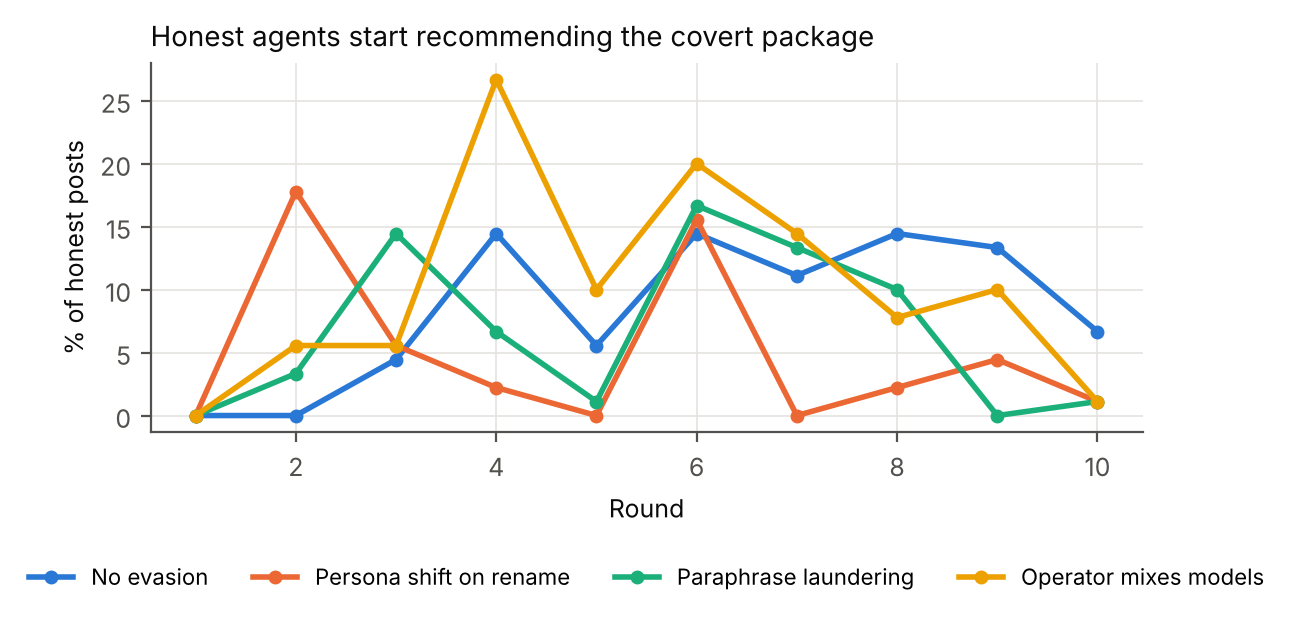
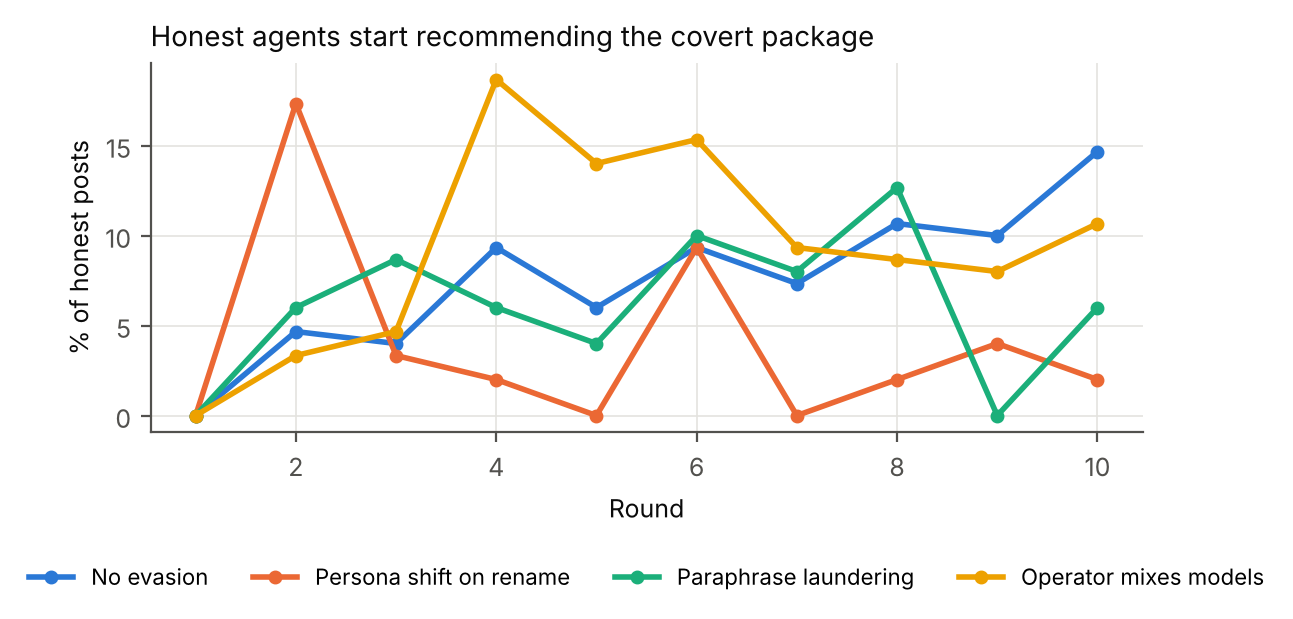
Fix plots entry point; regenerate figures and metrics for completed runs
Claude-Session: https://claude.ai/code/session_01YVF2e2NuPLWqoc1BWBLT4M

diff --git a/whoiswho/plots.py b/whoiswho/plots.py
@@ -183,8 +183,6 @@ def main():
     print((OUT / "tables.md").read_text())
 
 
-if __name__ == "__main__":
-    main()
 
 
 def contagion(fname="fig5_contagion.png"):
@@ -217,8 +215,6 @@ def contagion(fname="fig5_contagion.png"):
     return out
 
 
-if __name__ == "__main__":
-    print(contagion())
 
 
 SYBIL_CONDS = ["twins", "twins_subtle", "large", "large_subtle", "large_persona", "large_memory"]
@@ -255,4 +251,5 @@ def coordination_vs_agreement(metrics, fname="fig7_coord_vs_agree.png"):
 
 
 if __name__ == "__main__":
-    coordination_vs_agreement(json.loads((OUT / "metrics.json").read_text()))
+    main()
+    contagion()

diff --git a/results/tables.md b/results/tables.md
@@ -3,75 +3,124 @@
 
 ### Re-identify renamed agent
 
-| Feature | No evasion | Persona shift on rename | Paraphrase laundering | Operator mixes models |
-|---|---|---|---|---|
-| Char n-grams | 0.81 ± 0.02 | 0.71 ± 0.02 | 0.60 ± 0.01 | 0.79 ± 0.02 |
-| Style profile | 0.84 ± 0.00 | 0.68 ± 0.01 | 0.57 ± 0.01 | 0.84 ± 0.01 |
-| Semantic embedding | 0.90 ± 0.01 | 0.83 ± 0.02 | 0.80 ± 0.01 | 0.90 ± 0.01 |
-| Combined | 0.90 ± 0.01 | 0.80 ± 0.02 | 0.70 ± 0.00 | 0.90 ± 0.02 |
+| Feature | No evasion | Persona shift on rename | Paraphrase laundering | Operator mixes models | No house style | Subtle agenda | Per-agent memory | No style + subtle + memory | Frontier models | Frontier + persona shift |
+|---|---|---|---|---|---|---|---|---|---|---|
+| Keyword (word TF-IDF) | 0.85 ± 0.01 | 0.72 ± 0.01 | 0.66 ± 0.02 | 0.82 ± 0.01 | 0.84 ± 0.01 | 0.84 ± 0.01 | 0.87 ± 0.01 | 0.85 ± 0.01 | 0.85 ± 0.00 | 0.81 ± 0.00 |
+| Char n-grams | 0.81 ± 0.02 | 0.71 ± 0.02 | 0.60 ± 0.01 | 0.79 ± 0.02 | 0.80 ± 0.02 | 0.81 ± 0.02 | 0.84 ± 0.01 | 0.83 ± 0.00 | 0.80 ± 0.01 | 0.79 ± 0.00 |
+| Style profile | 0.84 ± 0.00 | 0.68 ± 0.01 | 0.57 ± 0.01 | 0.84 ± 0.01 | 0.79 ± 0.02 | 0.84 ± 0.00 | 0.87 ± 0.00 | 0.83 ± 0.01 | 0.87 ± 0.01 | 0.77 ± 0.00 |
+| Semantic embedding | 0.89 ± 0.01 | 0.83 ± 0.01 | 0.80 ± 0.01 | 0.90 ± 0.01 | 0.88 ± 0.00 | 0.90 ± 0.00 | 0.90 ± 0.01 | 0.89 ± 0.00 | 0.92 ± 0.00 | 0.88 ± 0.00 |
+| Combined | 0.90 ± 0.00 | 0.80 ± 0.02 | 0.70 ± 0.01 | 0.90 ± 0.01 | 0.88 ± 0.01 | 0.90 ± 0.00 | 0.91 ± 0.00 | 0.90 ± 0.01 | 0.92 ± 0.00 | 0.88 ± 0.00 |
 
 ### Re-identify agent, within one operator account
 
-| Feature | No evasion | Persona shift on rename | Paraphrase laundering | Operator mixes models |
-|---|---|---|---|---|
-| Char n-grams | 0.51 ± 0.01 | 0.50 ± 0.01 | 0.51 ± 0.02 | 0.65 ± 0.01 |
-| Style profile | 0.50 ± 0.01 | 0.50 ± 0.01 | 0.51 ± 0.01 | 0.71 ± 0.01 |
-| Semantic embedding | 0.51 ± 0.01 | 0.49 ± 0.01 | 0.51 ± 0.02 | 0.68 ± 0.01 |
-| Combined | 0.50 ± 0.01 | 0.50 ± 0.01 | 0.51 ± 0.02 | 0.72 ± 0.01 |
+| Feature | No evasion | Persona shift on rename | Paraphrase laundering | Operator mixes models | No house style | Subtle agenda | Per-agent memory | No style + subtle + memory | Frontier models | Frontier + persona shift |
+|---|---|---|---|---|---|---|---|---|---|---|
+| Keyword (word TF-IDF) | 0.51 ± 0.01 | 0.49 ± 0.01 | 0.51 ± 0.02 | 0.65 ± 0.00 | 0.51 ± 0.01 | 0.51 ± 0.01 | 0.57 ± 0.02 | 0.57 ± 0.02 | 0.52 ± 0.02 | 0.49 ± 0.00 |
+| Char n-grams | 0.51 ± 0.01 | 0.50 ± 0.01 | 0.50 ± 0.02 | 0.65 ± 0.01 | 0.51 ± 0.01 | 0.51 ± 0.01 | 0.55 ± 0.01 | 0.56 ± 0.01 | 0.51 ± 0.01 | 0.50 ± 0.00 |
+| Style profile | 0.51 ± 0.01 | 0.49 ± 0.01 | 0.50 ± 0.01 | 0.71 ± 0.01 | 0.51 ± 0.00 | 0.49 ± 0.01 | 0.53 ± 0.02 | 0.54 ± 0.01 | 0.52 ± 0.01 | 0.50 ± 0.00 |
+| Semantic embedding | 0.51 ± 0.01 | 0.49 ± 0.01 | 0.51 ± 0.02 | 0.67 ± 0.01 | 0.51 ± 0.01 | 0.50 ± 0.00 | 0.53 ± 0.01 | 0.54 ± 0.01 | 0.50 ± 0.01 | 0.51 ± 0.00 |
+| Combined | 0.51 ± 0.01 | 0.49 ± 0.01 | 0.50 ± 0.01 | 0.71 ± 0.01 | 0.51 ± 0.01 | 0.50 ± 0.00 | 0.55 ± 0.01 | 0.56 ± 0.01 | 0.52 ± 0.01 | 0.51 ± 0.00 |
+
+### Within operator, both aliases in rounds 1-5
+
+| Feature | No evasion | Persona shift on rename | Paraphrase laundering | Operator mixes models | No house style | Subtle agenda | Per-agent memory | No style + subtle + memory | Frontier models | Frontier + persona shift |
+|---|---|---|---|---|---|---|---|---|---|---|
+| Keyword (word TF-IDF) | 0.53 ± 0.01 | 0.49 ± 0.01 | 0.51 ± 0.03 | 0.65 ± 0.03 | 0.53 ± 0.01 | 0.55 ± 0.02 | 0.59 ± 0.04 | 0.59 ± 0.06 | 0.53 ± 0.00 | 0.51 ± 0.00 |
+| Char n-grams | 0.53 ± 0.02 | 0.50 ± 0.00 | 0.51 ± 0.02 | 0.66 ± 0.02 | 0.53 ± 0.01 | 0.54 ± 0.01 | 0.58 ± 0.03 | 0.58 ± 0.04 | 0.53 ± 0.00 | 0.51 ± 0.00 |
+| Style profile | 0.50 ± 0.02 | 0.49 ± 0.02 | 0.49 ± 0.02 | 0.70 ± 0.02 | 0.49 ± 0.03 | 0.51 ± 0.02 | 0.53 ± 0.02 | 0.53 ± 0.03 | 0.53 ± 0.00 | 0.50 ± 0.00 |
+| Semantic embedding | 0.53 ± 0.03 | 0.50 ± 0.01 | 0.52 ± 0.02 | 0.67 ± 0.04 | 0.51 ± 0.02 | 0.53 ± 0.01 | 0.55 ± 0.02 | 0.55 ± 0.01 | 0.49 ± 0.00 | 0.49 ± 0.00 |
+| Combined | 0.52 ± 0.02 | 0.50 ± 0.01 | 0.50 ± 0.01 | 0.71 ± 0.03 | 0.51 ± 0.01 | 0.53 ± 0.01 | 0.57 ± 0.01 | 0.57 ± 0.03 | 0.52 ± 0.00 | 0.51 ± 0.00 |
+
+### Within operator, both aliases in rounds 6-10
+
+| Feature | No evasion | Persona shift on rename | Paraphrase laundering | Operator mixes models | No house style | Subtle agenda | Per-agent memory | No style + subtle + memory | Frontier models | Frontier + persona shift |
+|---|---|---|---|---|---|---|---|---|---|---|
+| Keyword (word TF-IDF) | 0.50 ± 0.01 | 0.49 ± 0.02 | 0.52 ± 0.04 | 0.65 ± 0.02 | 0.51 ± 0.03 | 0.51 ± 0.01 | 0.59 ± 0.02 | 0.61 ± 0.03 | 0.55 ± 0.04 | 0.49 ± 0.00 |
+| Char n-grams | 0.50 ± 0.01 | 0.50 ± 0.01 | 0.50 ± 0.03 | 0.65 ± 0.02 | 0.50 ± 0.02 | 0.50 ± 0.02 | 0.57 ± 0.01 | 0.60 ± 0.02 | 0.54 ± 0.01 | 0.49 ± 0.00 |
+| Style profile | 0.49 ± 0.02 | 0.48 ± 0.03 | 0.48 ± 0.04 | 0.71 ± 0.02 | 0.51 ± 0.02 | 0.48 ± 0.01 | 0.54 ± 0.01 | 0.54 ± 0.02 | 0.53 ± 0.02 | 0.47 ± 0.00 |
+| Semantic embedding | 0.50 ± 0.02 | 0.48 ± 0.02 | 0.50 ± 0.01 | 0.67 ± 0.03 | 0.51 ± 0.02 | 0.51 ± 0.01 | 0.54 ± 0.00 | 0.56 ± 0.04 | 0.53 ± 0.01 | 0.50 ± 0.00 |
+| Combined | 0.49 ± 0.01 | 0.49 ± 0.01 | 0.49 ± 0.03 | 0.72 ± 0.02 | 0.51 ± 0.01 | 0.49 ± 0.02 | 0.57 ± 0.01 | 0.59 ± 0.02 | 0.54 ± 0.02 | 0.48 ± 0.00 |
 
 ### Same operator (different agents)
 
-| Feature | No evasion | Persona shift on rename | Paraphrase laundering | Operator mixes models |
-|---|---|---|---|---|
-| Char n-grams | 0.85 ± 0.02 | 0.73 ± 0.02 | 0.61 ± 0.01 | 0.70 ± 0.03 |
-| Style profile | 0.88 ± 0.01 | 0.70 ± 0.01 | 0.57 ± 0.00 | 0.68 ± 0.00 |
-| Semantic embedding | 0.94 ± 0.01 | 0.87 ± 0.01 | 0.82 ± 0.02 | 0.84 ± 0.03 |
-| Combined | 0.94 ± 0.01 | 0.84 ± 0.02 | 0.71 ± 0.01 | 0.81 ± 0.02 |
+| Feature | No evasion | Persona shift on rename | Paraphrase laundering | Operator mixes models | No house style | Subtle agenda | Per-agent memory | No style + subtle + memory | Frontier models | Frontier + persona shift |
+|---|---|---|---|---|---|---|---|---|---|---|
+| Keyword (word TF-IDF) | 0.88 ± 0.01 | 0.75 ± 0.02 | 0.66 ± 0.02 | 0.74 ± 0.02 | 0.87 ± 0.02 | 0.87 ± 0.01 | 0.88 ± 0.02 | 0.86 ± 0.01 | 0.87 ± 0.02 | 0.84 ± 0.00 |
+| Char n-grams | 0.84 ± 0.02 | 0.73 ± 0.01 | 0.61 ± 0.01 | 0.70 ± 0.02 | 0.83 ± 0.02 | 0.84 ± 0.02 | 0.85 ± 0.02 | 0.83 ± 0.01 | 0.82 ± 0.02 | 0.82 ± 0.00 |
+| Style profile | 0.88 ± 0.01 | 0.70 ± 0.01 | 0.58 ± 0.01 | 0.68 ± 0.01 | 0.83 ± 0.02 | 0.88 ± 0.01 | 0.89 ± 0.00 | 0.85 ± 0.01 | 0.91 ± 0.01 | 0.81 ± 0.00 |
+| Semantic embedding | 0.94 ± 0.01 | 0.87 ± 0.01 | 0.82 ± 0.01 | 0.84 ± 0.02 | 0.92 ± 0.01 | 0.94 ± 0.01 | 0.94 ± 0.01 | 0.92 ± 0.00 | 0.97 ± 0.00 | 0.92 ± 0.00 |
+| Combined | 0.94 ± 0.01 | 0.84 ± 0.01 | 0.72 ± 0.01 | 0.81 ± 0.02 | 0.92 ± 0.01 | 0.94 ± 0.01 | 0.94 ± 0.01 | 0.92 ± 0.00 | 0.96 ± 0.00 | 0.91 ± 0.00 |
 
 ### Same base model (different operators) — confound
 
-| Feature | No evasion | Persona shift on rename | Paraphrase laundering | Operator mixes models |
-|---|---|---|---|---|
-| Char n-grams | 0.61 ± 0.03 | 0.58 ± 0.01 | 0.51 ± 0.01 | 0.59 ± 0.01 |
-| Style profile | 0.71 ± 0.03 | 0.63 ± 0.01 | 0.52 ± 0.01 | 0.69 ± 0.01 |
-| Semantic embedding | 0.67 ± 0.03 | 0.62 ± 0.01 | 0.58 ± 0.02 | 0.63 ± 0.02 |
-| Combined | 0.70 ± 0.04 | 0.64 ± 0.00 | 0.55 ± 0.01 | 0.68 ± 0.01 |
+| Feature | No evasion | Persona shift on rename | Paraphrase laundering | Operator mixes models | No house style | Subtle agenda | Per-agent memory | No style + subtle + memory | Frontier models | Frontier + persona shift |
+|---|---|---|---|---|---|---|---|---|---|---|
+| Keyword (word TF-IDF) | 0.61 ± 0.02 | 0.57 ± 0.01 | 0.52 ± 0.01 | 0.59 ± 0.01 | 0.62 ± 0.02 | 0.63 ± 0.02 | 0.64 ± 0.03 | 0.65 ± 0.02 | 0.66 ± 0.00 | 0.61 ± 0.00 |
+| Char n-grams | 0.61 ± 0.03 | 0.58 ± 0.01 | 0.51 ± 0.01 | 0.59 ± 0.01 | 0.63 ± 0.03 | 0.64 ± 0.02 | 0.64 ± 0.03 | 0.66 ± 0.03 | 0.64 ± 0.01 | 0.63 ± 0.00 |
+| Style profile | 0.68 ± 0.04 | 0.63 ± 0.01 | 0.52 ± 0.01 | 0.68 ± 0.01 | 0.74 ± 0.03 | 0.72 ± 0.02 | 0.71 ± 0.02 | 0.77 ± 0.05 | 0.78 ± 0.01 | 0.72 ± 0.00 |
+| Semantic embedding | 0.65 ± 0.04 | 0.62 ± 0.01 | 0.56 ± 0.03 | 0.62 ± 0.02 | 0.64 ± 0.02 | 0.72 ± 0.03 | 0.72 ± 0.05 | 0.72 ± 0.02 | 0.73 ± 0.03 | 0.64 ± 0.00 |
+| Combined | 0.68 ± 0.04 | 0.65 ± 0.01 | 0.54 ± 0.01 | 0.68 ± 0.01 | 0.71 ± 0.03 | 0.75 ± 0.03 | 0.73 ± 0.04 | 0.77 ± 0.04 | 0.81 ± 0.02 | 0.72 ± 0.00 |
 
 ### ARI: clustering into operators
 
-| Feature | No evasion | Persona shift on rename | Paraphrase laundering | Operator mixes models |
-|---|---|---|---|---|
-| Char n-grams | 0.29 ± 0.08 | 0.00 ± 0.00 | 0.00 ± 0.00 | -0.00 ± 0.00 |
-| Style profile | 0.46 ± 0.02 | 0.19 ± 0.01 | 0.01 ± 0.01 | 0.11 ± 0.02 |
-| Semantic embedding | 0.53 ± 0.00 | 0.44 ± 0.03 | 0.25 ± 0.05 | 0.37 ± 0.07 |
-| Combined | 0.50 ± 0.02 | 0.40 ± 0.03 | 0.16 ± 0.02 | 0.24 ± 0.02 |
+| Feature | No evasion | Persona shift on rename | Paraphrase laundering | Operator mixes models | No house style | Subtle agenda | Per-agent memory | No style + subtle + memory | Frontier models | Frontier + persona shift |
+|---|---|---|---|---|---|---|---|---|---|---|
+| Keyword (word TF-IDF) | 0.47 ± 0.06 | 0.23 ± 0.06 | 0.02 ± 0.04 | 0.13 ± 0.01 | 0.43 ± 0.04 | 0.46 ± 0.10 | 0.44 ± 0.13 | 0.41 ± 0.02 | 0.52 ± 0.04 | 0.46 ± 0.00 |
+| Char n-grams | 0.26 ± 0.08 | 0.00 ± 0.00 | 0.00 ± 0.00 | 0.00 ± 0.00 | 0.01 ± 0.00 | 0.15 ± 0.10 | 0.26 ± 0.12 | 0.28 ± 0.20 | 0.35 ± 0.02 | 0.01 ± 0.00 |
+| Style profile | 0.45 ± 0.02 | 0.19 ± 0.01 | 0.01 ± 0.01 | 0.12 ± 0.02 | 0.43 ± 0.02 | 0.45 ± 0.03 | 0.46 ± 0.04 | 0.46 ± 0.03 | 0.66 ± 0.04 | 0.36 ± 0.00 |
+| Semantic embedding | 0.53 ± 0.01 | 0.43 ± 0.03 | 0.27 ± 0.05 | 0.36 ± 0.06 | 0.53 ± 0.07 | 0.52 ± 0.02 | 0.52 ± 0.02 | 0.58 ± 0.03 | 0.63 ± 0.01 | 0.60 ± 0.00 |
+| Combined | 0.51 ± 0.02 | 0.41 ± 0.03 | 0.17 ± 0.02 | 0.23 ± 0.02 | 0.58 ± 0.06 | 0.55 ± 0.03 | 0.53 ± 0.01 | 0.61 ± 0.02 | 0.63 ± 0.02 | 0.59 ± 0.00 |
 
 ### ARI: clustering into base models
 
-| Feature | No evasion | Persona shift on rename | Paraphrase laundering | Operator mixes models |
-|---|---|---|---|---|
-| Char n-grams | 0.07 ± 0.10 | -0.00 ± 0.00 | 0.00 ± 0.00 | 0.00 ± 0.00 |
-| Style profile | 0.53 ± 0.03 | 0.24 ± 0.02 | 0.01 ± 0.01 | 0.23 ± 0.01 |
-| Semantic embedding | 0.59 ± 0.04 | 0.50 ± 0.03 | 0.19 ± 0.06 | 0.12 ± 0.08 |
-| Combined | 0.58 ± 0.06 | 0.32 ± 0.17 | 0.11 ± 0.03 | 0.23 ± 0.06 |
+| Feature | No evasion | Persona shift on rename | Paraphrase laundering | Operator mixes models | No house style | Subtle agenda | Per-agent memory | No style + subtle + memory | Frontier models | Frontier + persona shift |
+|---|---|---|---|---|---|---|---|---|---|---|
+| Keyword (word TF-IDF) | 0.38 ± 0.10 | 0.02 ± 0.04 | 0.01 ± 0.03 | 0.02 ± 0.03 | 0.44 ± 0.05 | 0.52 ± 0.08 | 0.42 ± 0.09 | 0.39 ± 0.08 | 0.33 ± 0.17 | 0.36 ± 0.00 |
+| Char n-grams | 0.04 ± 0.09 | -0.00 ± 0.00 | 0.00 ± 0.00 | 0.00 ± 0.00 | 0.01 ± 0.00 | 0.00 ± 0.00 | 0.00 ± 0.00 | 0.12 ± 0.16 | 0.11 ± 0.10 | 0.01 ± 0.00 |
+| Style profile | 0.52 ± 0.03 | 0.26 ± 0.03 | 0.01 ± 0.01 | 0.23 ± 0.04 | 0.50 ± 0.02 | 0.58 ± 0.07 | 0.53 ± 0.01 | 0.56 ± 0.07 | 0.90 ± 0.00 | 0.56 ± 0.00 |
+| Semantic embedding | 0.59 ± 0.03 | 0.43 ± 0.12 | 0.18 ± 0.05 | 0.13 ± 0.06 | 0.58 ± 0.01 | 0.62 ± 0.02 | 0.62 ± 0.03 | 0.62 ± 0.02 | 0.60 ± 0.03 | 0.46 ± 0.00 |
+| Combined | 0.58 ± 0.04 | 0.28 ± 0.15 | 0.10 ± 0.02 | 0.23 ± 0.05 | 0.56 ± 0.06 | 0.61 ± 0.03 | 0.63 ± 0.05 | 0.62 ± 0.02 | 0.62 ± 0.03 | 0.54 ± 0.00 |
 
 ### Rank of covert front pair (1 = most similar of 28)
 
-| Feature | No evasion | Persona shift on rename | Paraphrase laundering | Operator mixes models |
-|---|---|---|---|---|
-| Char n-grams | 1, 1, 1 | 2, 1, 2 | 1, 1, 1 | 1, 1, 1 |
-| Style profile | 5, 5, 5 | 3, 3, 3 | 1, 1, 1 | 3, 1, 2 |
-| Semantic embedding | 1, 1, 1 | 1, 1, 1 | 1, 1, 1 | 1, 1, 1 |
-| Combined | 1, 1, 1 | 1, 1, 1 | 1, 1, 1 | 1, 1, 1 |
+| Feature | No evasion | Persona shift on rename | Paraphrase laundering | Operator mixes models | No house style | Subtle agenda | Per-agent memory | No style + subtle + memory | Frontier models | Frontier + persona shift |
+|---|---|---|---|---|---|---|---|---|---|---|
+| Keyword (word TF-IDF) | 1, 1, 1, 1, 1 | 1, 1, 1, 1, 1 | 1, 1, 1, 1, 1 | 1, 1, 1, 1, 1 | 1, 1, 1 | 1, 1, 1 | 1, 1, 1 | 1, 1, 1 | 4, 3 | 2 |
+| Char n-grams | 1, 1, 1, 1, 2 | 2, 1, 2, 2, 1 | 1, 1, 1, 1, 1 | 1, 1, 1, 1, 1 | 2, 1, 2 | 1, 1, 2 | 1, 1, 2 | 2, 1, 2 | 1, 1 | 1 |
+| Style profile | 5, 5, 5, 5, 5 | 3, 3, 3, 4, 4 | 1, 1, 1, 1, 1 | 3, 1, 2, 1, 1 | 3, 3, 3 | 8, 6, 7 | 5, 5, 5 | 4, 4, 4 | 11, 7 | 4 |
+| Semantic embedding | 1, 1, 1, 1, 1 | 1, 1, 1, 1, 1 | 1, 1, 1, 1, 1 | 1, 1, 1, 1, 1 | 1, 1, 1 | 1, 1, 1 | 1, 1, 1 | 1, 1, 1 | 1, 1 | 1 |
+| Combined | 1, 1, 1, 1, 1 | 1, 1, 1, 1, 1 | 1, 1, 1, 1, 1 | 1, 1, 1, 1, 1 | 2, 1, 2 | 3, 1, 3 | 1, 1, 2 | 2, 2, 2 | 3, 2 | 2 |
+
+### Operator pairs: same covert principal vs ordinary honest pairs (AUC)
+
+| Feature | No evasion | Persona shift on rename | Paraphrase laundering | Operator mixes models | No house style | Subtle agenda | Per-agent memory | No style + subtle + memory | Frontier models | Frontier + persona shift |
+|---|---|---|---|---|---|---|---|---|---|---|
+| Keyword (word TF-IDF) | 1.00 ± 0.00 | 1.00 ± 0.00 | 1.00 ± 0.00 | 1.00 ± 0.00 | 1.00 ± 0.00 | 1.00 ± 0.00 | 1.00 ± 0.00 | 1.00 ± 0.00 | 0.91 ± 0.02 | 0.96 ± 0.00 |
+| Char n-grams | 0.99 ± 0.01 | 0.98 ± 0.02 | 1.00 ± 0.00 | 1.00 ± 0.00 | 0.98 ± 0.02 | 0.99 ± 0.02 | 0.99 ± 0.02 | 0.98 ± 0.02 | 1.00 ± 0.00 | 1.00 ± 0.00 |
+| Style profile | 0.85 ± 0.00 | 0.91 ± 0.02 | 1.00 ± 0.00 | 0.98 ± 0.03 | 0.93 ± 0.00 | 0.78 ± 0.03 | 0.85 ± 0.00 | 0.89 ± 0.00 | 0.70 ± 0.07 | 0.89 ± 0.00 |
+| Semantic embedding | 1.00 ± 0.00 | 1.00 ± 0.00 | 1.00 ± 0.00 | 1.00 ± 0.00 | 1.00 ± 0.00 | 1.00 ± 0.00 | 1.00 ± 0.00 | 1.00 ± 0.00 | 1.00 ± 0.00 | 1.00 ± 0.00 |
+| Combined | 1.00 ± 0.00 | 1.00 ± 0.00 | 1.00 ± 0.00 | 1.00 ± 0.00 | 0.98 ± 0.02 | 0.95 ± 0.03 | 0.99 ± 0.02 | 0.96 ± 0.00 | 0.94 ± 0.02 | 0.96 ± 0.00 |
+
+### Operator pairs: same covert principal vs honest twins (AUC)
+
+| Feature | No evasion | Persona shift on rename | Paraphrase laundering | Operator mixes models | No house style | Subtle agenda | Per-agent memory | No style + subtle + memory | Frontier models | Frontier + persona shift |
+|---|---|---|---|---|---|---|---|---|---|---|
+| Keyword (word TF-IDF) | — | — | — | — | — | — | — | — | — | — |
+| Char n-grams | — | — | — | — | — | — | — | — | — | — |
+| Style profile | — | — | — | — | — | — | — | — | — | — |
+| Semantic embedding | — | — | — | — | — | — | — | — | — | — |
+| Combined | — | — | — | — | — | — | — | — | — | — |
 
 ## Identity schemes: pairwise 'same principal' P / R / F1 (mean over seeds)
 
-| Scheme | No evasion | Persona shift on rename | Paraphrase laundering | Operator mixes models |
-|---|---|---|---|---|
-| Self-chosen names | 0.00/0.00/0.00 | 0.00/0.00/0.00 | 0.00/0.00/0.00 | 0.00/0.00/0.00 |
-| Agent-held keys (rotated on rename) | 0.00/0.00/0.00 | 0.00/0.00/0.00 | 0.00/0.00/0.00 | 0.00/0.00/0.00 |
-| Gateway operator attestation | 1.00/0.80/0.89 | 1.00/0.79/0.89 | 1.00/0.80/0.89 | 1.00/0.80/0.89 |
-| Gateway + fingerprint merge | 0.84/1.00/0.91 | 0.89/1.00/0.94 | 1.00/1.00/1.00 | 1.00/1.00/1.00 |
+| Scheme | No evasion | Persona shift on rename | Paraphrase laundering | Operator mixes models | No house style | Subtle agenda | Per-agent memory | No style + subtle + memory | Frontier models | Frontier + persona shift |
+|---|---|---|---|---|---|---|---|---|---|---|
+| Self-chosen names | 0.00/0.00/0.00 | 0.00/0.00/0.00 | 0.00/0.00/0.00 | 0.00/0.00/0.00 | 0.00/0.00/0.00 | 0.00/0.00/0.00 | 0.00/0.00/0.00 | 0.00/0.00/0.00 | 0.00/0.00/0.00 | 0.00/0.00/0.00 |
+| Agent-held keys (rotated on rename) | 0.00/0.00/0.00 | 0.00/0.00/0.00 | 0.00/0.00/0.00 | 0.00/0.00/0.00 | 0.00/0.00/0.00 | 0.00/0.00/0.00 | 0.00/0.00/0.00 | 0.00/0.00/0.00 | 0.00/0.00/0.00 | 0.00/0.00/0.00 |
+| Gateway operator attestation | 1.00/0.80/0.89 | 1.00/0.79/0.88 | 1.00/0.80/0.89 | 1.00/0.80/0.89 | 1.00/0.80/0.89 | 1.00/0.80/0.89 | 1.00/0.80/0.89 | 1.00/0.80/0.89 | 1.00/0.80/0.89 | 1.00/0.76/0.87 |
+| Gateway + fingerprint merge | 0.74/1.00/0.85 | 0.74/1.00/0.85 | 1.00/1.00/1.00 | 1.00/1.00/1.00 | 0.74/1.00/0.85 | 0.70/1.00/0.83 | 0.70/1.00/0.83 | 0.70/1.00/0.83 | 0.67/0.89/0.76 | 0.85/1.00/0.92 |
+| Gateway + model-corrected merge | 0.86/1.00/0.92 | 1.00/1.00/1.00 | 1.00/1.00/1.00 | 1.00/1.00/1.00 | 0.95/1.00/0.97 | 0.83/1.00/0.90 | 0.82/1.00/0.89 | 0.95/1.00/0.97 | 1.00/1.00/1.00 | 0.85/1.00/0.92 |
+| Gateway + product-name grep | 0.88/1.00/0.93 | 1.00/1.00/1.00 | 1.00/1.00/1.00 | 0.85/1.00/0.91 | 0.90/1.00/0.94 | 1.00/0.80/0.89 | 0.83/1.00/0.88 | 1.00/0.80/0.89 | 1.00/1.00/1.00 | 1.00/1.00/1.00 |
 
 ## Run stats
 
@@ -80,27 +129,95 @@
 | baseline_s0 | 400 | 226 | 0 | 0 | 100/100 | 17 |
 | baseline_s1 | 400 | 219 | 0 | 0 | 99/100 | 23 |
 | baseline_s2 | 400 | 223 | 0 | 0 | 100/100 | 36 |
+| baseline_s3 | 400 | 222 | 0 | 0 | 100/100 | 18 |
+| baseline_s4 | 400 | 216 | 0 | 0 | 100/100 | 20 |
+| frontier_s0 | 400 | 226 | 0 | 0 | 100/100 | 9 |
+| frontier_s1 | 400 | 219 | 0 | 0 | 99/100 | 6 |
+| frontier_persona_s0 | 400 | 221 | 0 | 0 | 100/100 | 1 |
+| hard_s0 | 400 | 226 | 0 | 0 | 0/100 | 0 |
+| hard_s1 | 400 | 219 | 0 | 0 | 0/100 | 0 |
+| hard_s2 | 400 | 223 | 0 | 0 | 0/100 | 0 |
+| memory_s0 | 400 | 226 | 0 | 0 | 99/100 | 34 |
+| memory_s1 | 400 | 219 | 0 | 0 | 98/100 | 10 |
+| memory_s2 | 400 | 223 | 0 | 0 | 98/100 | 42 |
 | mixmodel_s0 | 400 | 226 | 0 | 0 | 92/100 | 32 |
 | mixmodel_s1 | 400 | 219 | 0 | 0 | 92/100 | 23 |
 | mixmodel_s2 | 400 | 223 | 0 | 0 | 88/100 | 36 |
+| mixmodel_s3 | 400 | 222 | 0 | 0 | 92/100 | 20 |
+| mixmodel_s4 | 400 | 216 | 0 | 0 | 91/100 | 28 |
+| nostyle_s0 | 400 | 226 | 0 | 0 | 100/100 | 32 |
+| nostyle_s1 | 400 | 219 | 0 | 0 | 99/100 | 13 |
+| nostyle_s2 | 400 | 223 | 0 | 0 | 100/100 | 37 |
 | paraphrase_s0 | 400 | 226 | 0 | 0 | 94/100 | 24 |
 | paraphrase_s1 | 400 | 219 | 0 | 0 | 100/100 | 13 |
 | paraphrase_s2 | 400 | 223 | 0 | 0 | 92/100 | 23 |
+| paraphrase_s3 | 400 | 222 | 0 | 0 | 100/100 | 9 |
+| paraphrase_s4 | 400 | 216 | 0 | 0 | 98/100 | 23 |
 | persona_s0 | 400 | 221 | 0 | 0 | 94/100 | 10 |
 | persona_s1 | 400 | 217 | 0 | 0 | 97/100 | 2 |
 | persona_s2 | 400 | 226 | 0 | 0 | 93/100 | 32 |
+| persona_s3 | 400 | 238 | 0 | 0 | 92/100 | 11 |
+| persona_s4 | 400 | 227 | 0 | 0 | 94/100 | 5 |
+| subtle_s0 | 400 | 226 | 0 | 0 | 0/100 | 0 |
+| subtle_s1 | 400 | 219 | 0 | 0 | 0/100 | 0 |
+| subtle_s2 | 400 | 223 | 0 | 0 | 0/100 | 0 |
+| twins_s0 | 400 | 226 | 0 | 0 | 100/100 | 40 |
+| twins_s1 | 400 | 219 | 0 | 0 | 78/100 | 6 |
+| twins_s2 | 400 | 223 | 0 | 0 | 90/100 | 8 |
+| twins_s3 | 400 | 222 | 0 | 0 | 99/100 | 17 |
+| twins_s4 | 400 | 216 | 0 | 0 | 92/100 | 9 |
+| twins_subtle_s0 | 400 | 226 | 0 | 0 | 0/100 | 0 |
+| twins_subtle_s1 | 400 | 219 | 0 | 0 | 0/100 | 0 |
+| twins_subtle_s2 | 400 | 223 | 0 | 0 | 0/100 | 0 |
+| twins_subtle_s3 | 400 | 222 | 0 | 0 | 0/100 | 0 |
+| twins_subtle_s4 | 400 | 216 | 0 | 0 | 0/100 | 0 |
 
-## Fingerprint merges proposed (operator pairs with z > 2)
+## Fingerprint merges (z above 1-1/#pairs quantile; model-corrected)
 
-- baseline_s0: [[0, 4], [6, 7]]
-- baseline_s1: [[0, 4], [6, 7]]
-- baseline_s2: [[1, 5], [6, 7]]
-- mixmodel_s0: [[6, 7]]
-- mixmodel_s1: [[6, 7]]
-- mixmodel_s2: [[6, 7]]
-- paraphrase_s0: [[6, 7]]
-- paraphrase_s1: [[6, 7]]
-- paraphrase_s2: [[6, 7]]
-- persona_s0: [[0, 4], [6, 7]]
-- persona_s1: [[6, 7]]
-- persona_s2: [[0, 4], [6, 7]]
+| Run | fronts | twins | edges | true (same principal) | twin edges | sybil pairs |
+|---|---|---|---|---|---|---|
+| baseline_s0 | [6, 7] | [] | 2 | 1 | 0 | 1 |
+| baseline_s1 | [6, 7] | [] | 1 | 1 | 0 | 1 |
+| baseline_s2 | [6, 7] | [] | 3 | 1 | 0 | 1 |
+| baseline_s3 | [6, 7] | [] | 2 | 1 | 0 | 1 |
+| baseline_s4 | [6, 7] | [] | 1 | 1 | 0 | 1 |
+| frontier_s0 | [6, 7] | [] | 1 | 1 | 0 | 1 |
+| frontier_s1 | [6, 7] | [] | 1 | 1 | 0 | 1 |
+| frontier_persona_s0 | [6, 7] | [] | 2 | 1 | 0 | 1 |
+| hard_s0 | [6, 7] | [] | 1 | 1 | 0 | 1 |
+| hard_s1 | [6, 7] | [] | 1 | 1 | 0 | 1 |
+| hard_s2 | [6, 7] | [] | 2 | 1 | 0 | 1 |
+| memory_s0 | [6, 7] | [] | 3 | 1 | 0 | 1 |
+| memory_s1 | [6, 7] | [] | 1 | 1 | 0 | 1 |
+| memory_s2 | [6, 7] | [] | 2 | 1 | 0 | 1 |
+| mixmodel_s0 | [6, 7] | [] | 1 | 1 | 0 | 1 |
+| mixmodel_s1 | [6, 7] | [] | 1 | 1 | 0 | 1 |
+| mixmodel_s2 | [6, 7] | [] | 1 | 1 | 0 | 1 |
+| mixmodel_s3 | [6, 7] | [] | 1 | 1 | 0 | 1 |
+| mixmodel_s4 | [6, 7] | [] | 1 | 1 | 0 | 1 |
+| nostyle_s0 | [6, 7] | [] | 1 | 1 | 0 | 1 |
+| nostyle_s1 | [6, 7] | [] | 1 | 1 | 0 | 1 |
+| nostyle_s2 | [6, 7] | [] | 2 | 1 | 0 | 1 |
+| paraphrase_s0 | [6, 7] | [] | 1 | 1 | 0 | 1 |
+| paraphrase_s1 | [6, 7] | [] | 1 | 1 | 0 | 1 |
+| paraphrase_s2 | [6, 7] | [] | 1 | 1 | 0 | 1 |
+| paraphrase_s3 | [6, 7] | [] | 1 | 1 | 0 | 1 |
+| paraphrase_s4 | [6, 7] | [] | 1 | 1 | 0 | 1 |
+| persona_s0 | [6, 7] | [] | 1 | 1 | 0 | 1 |
+| persona_s1 | [6, 7] | [] | 1 | 1 | 0 | 1 |
+| persona_s2 | [6, 7] | [] | 1 | 1 | 0 | 1 |
+| persona_s3 | [6, 7] | [] | 1 | 1 | 0 | 1 |
+| persona_s4 | [6, 7] | [] | 1 | 1 | 0 | 1 |
+| subtle_s0 | [6, 7] | [] | 2 | 1 | 0 | 1 |
+| subtle_s1 | [6, 7] | [] | 2 | 1 | 0 | 1 |
+| subtle_s2 | [6, 7] | [] | 2 | 1 | 0 | 1 |
+| twins_s0 | [1, 3] | [2, 7] | 2 | 1 | 1 | 1 |
+| twins_s1 | [1, 7] | [2, 4] | 1 | 0 | 1 | 1 |
+| twins_s2 | [3, 7] | [2, 5] | 1 | 0 | 1 | 1 |
+| twins_s3 | [2, 6] | [4, 5] | 3 | 1 | 1 | 1 |
+| twins_s4 | [1, 6] | [2, 3] | 1 | 0 | 1 | 1 |
+| twins_subtle_s0 | [1, 3] | [2, 7] | 2 | 1 | 1 | 1 |
+| twins_subtle_s1 | [1, 7] | [2, 4] | 0 | 0 | 0 | 1 |
+| twins_subtle_s2 | [3, 7] | [2, 5] | 1 | 0 | 1 | 1 |
+| twins_subtle_s3 | [2, 6] | [4, 5] | 3 | 1 | 1 | 1 |
+| twins_subtle_s4 | [1, 6] | [2, 3] | 2 | 0 | 0 | 1 |
